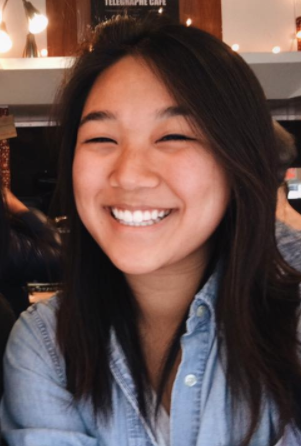
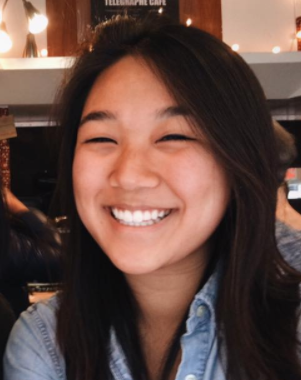
fourth

diff --git a/style.css b/style.css
@@ -52,8 +52,9 @@ img.default{
 img.profile{
 	display: block;
 	margin: auto;
-	height: 250px;
+	height: 200px;
 	margin-left: 3cm;
+	border-radius: 40%;
 }
 .aboutInfoBox{
 	margin: auto;

diff --git a/include/posts.php b/include/posts.php
@@ -15,10 +15,17 @@ function getPost($postId) {
 
 function viewPost($postId) {
 	$specificPost = getPost($postId);
-	echo '<div class="main"><div class="blogPosts">'.$specificPost['body'].'</div></div>'
-	;	
+	echo '<div class="main"><div class="blogPosts">'.$specificPost['body'].'</div></div>';	
 }
 
-function listPostCategories($category) {
-	
+function listPostCategories() {
+	$posts = dbQuery("SELECT * FROM blog_posts ORDER BY category")->fetchAll();
+	$printed = array();
+	foreach ($posts as $post) {
+		if (!in_array($post['category'], $printed)) {
+			echo '<h4>'.$post['category'].'</h4>';
+			array_push($printed, $post['category']);
+		};
+		echo '<a href="view-post.php?postId='.$post['postId'].'">'.$post['title'].'</a><hr>';
+	};
 }

diff --git a/blog-posts.php b/blog-posts.php
@@ -2,11 +2,13 @@
 include('config/init.php');
 navbar('Posts | Kelly Jung', 'Posts by Kelly', 'headerMain');
 ?>
-<div class="main">
-	<div class="blogPosts">
+<div class='main'>
+	<div class='blogPosts'>
+	<!-- <form action='' name='categories' method='post'> -->
 		<ul>
 			<?php
-			listPosts();
+			// listPosts();
+			listPostCategories()
 			?>
 		</ul>
 	</div>

diff --git a/about-me.php b/about-me.php
@@ -4,7 +4,7 @@ navbar('About | Kelly Jung', 'About Me', 'headerMain');
 ?>
 <div class="main">
 	<div class="container">
-		<img class="profile" src="kelly-pic.png" alt="Picture of Kelly">
+		<img class="profile" src="kelly-pic-smaller.png" alt="Picture of Kelly">
 		<br>
 		<div class="aboutInfoBox">
 			<table>

diff --git a/config/init.php b/config/init.php
@@ -1,4 +1,5 @@
 <?php
+date_default_timezone_set('America/Chicago');
 include('config/config.php');
 include('include/db_query.php'); //this should happen right after config so other functions have access to the database
 include('include/head-foot.php');
